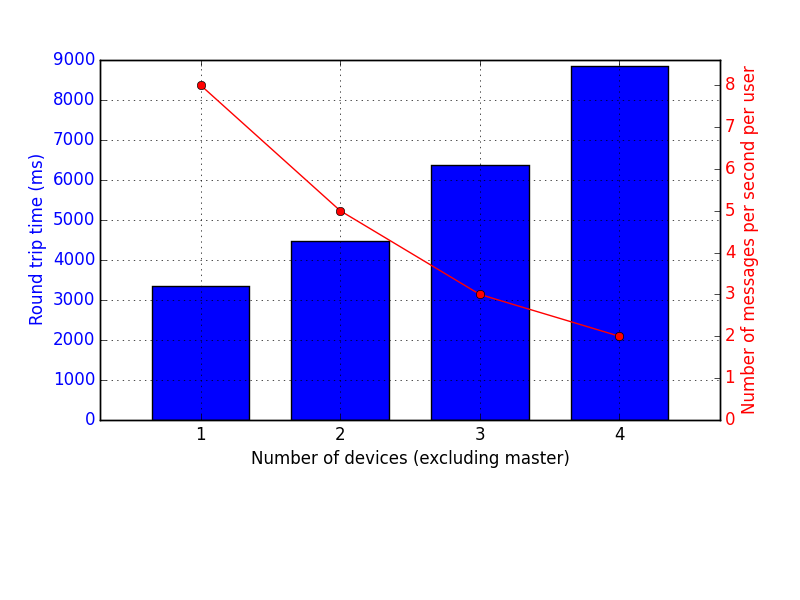
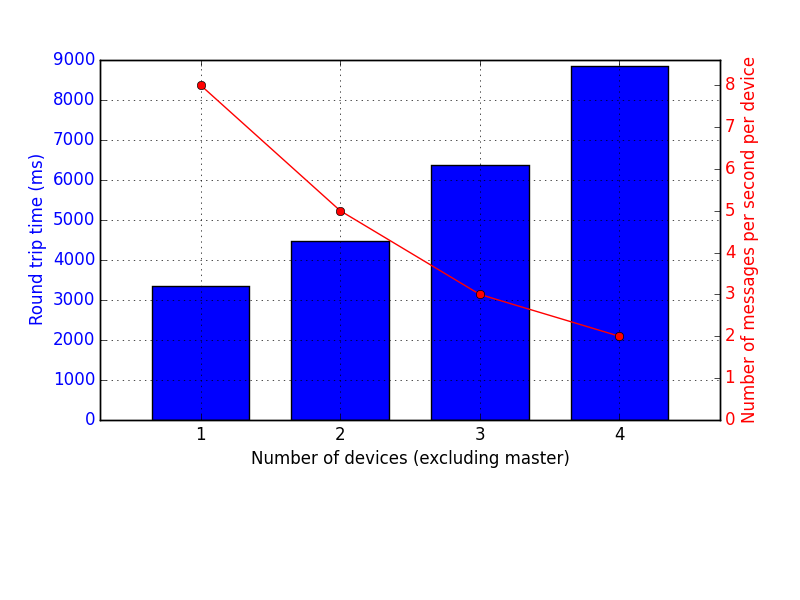
Updates from ShareLaTeX

Changed region(s): [[0.9062, 0.09, 0.9688, 0.72]]

diff --git a/technology/main.tex b/technology/main.tex
@@ -1,0 +1,32 @@
+\subsection{Benchmark Application}
+All of the benchmarking code was implemented in a standard android application which is available on Github \cite{benchmarking-code}.
+The application was responsible for running a simulation and collecting the relevant metrics for each simulation scenario.
+To allow programmatic access to all this functions, a small HTTP server \cite{nanohttpd} was embedded into the application.
+This approach allowed manual testing of the functionality during development as well as allowing a remote script to run the real simulations.
+Three endpoints were exposed on the HTTP server by the application; one to get the Bluetooth name and MAC address of the device and two to run simulations.
+
+A python script was developed to run the individual simulations, collect and plot the data generated in the process.
+The script used the list of local IP addresses as input and collected all of the necessary information via the \texttt{/mac} HTTP endpoint on each device.
+
+
+The second benchmark was designed to test the performance of a device to send multiple messages to a variety of other devices.
+For this test a single device, the master, sent a predefined number of messages to a set of devices.
+When the devices received a message they sent a reply back so that the master could compute the round-trip-time.
+
+To initiate the test the script invoked the \texttt{/messages} endpoint on the master device, passing a list of targets and the number of messages to send to each client as query string parameters.
+
+Each message sent by the master was tagged with a random UUID, so when the response was received, the master was able to compute the round trip time for that message.
+Once the master received a response for every request sent (or after the timeout went off), a CSV was returned as response to the HTTP request.
+This CSV contained six fields: ``to'', ``from'', ``message\textunderscore size'', ``started'', ``received'' and ``finished''.
+``to'' and ``from'', like in the previous test, contained the Bluetooth MAC address of client and server.
+``message\textunderscore size'' contained the size of the messages sent (1024 bytes by default).
+``started'' and ``stopped'' were timestamps mesured when the mesage was sent and a reply was received, completing the round-trip.
+
+\paragraph{Connection setup} 
+The messages coming back from the clients also contained a timestamp recorded when the client device received the messages.
+Its purpose was to estimate how much of the round-trip time was spent in establishing the connection.
+The problem with this approach was that the internal clocks of the devices were not synchronized and the data collected contained many inconsistencies.
+Presently the Android operating system does not allow to force a NTP sync or alter the system clock via API, thus preventing external applications from doing so.
+
+In order to understand how the number of devices affects the number of messages a device is able to deliver, a complete test run started by performing the test targeting one of the devices progressively increasing the number of device until all the requested devices were included.
+The results obtained from the tests are summarized and shown in \ref{figure:messages-per-second}.

diff --git a/alternatives/analysis.tex b/alternatives/analysis.tex
@@ -19,8 +19,8 @@ Manual pairing was performed on all three devices (each of them was paired with 
 After a couple of minutes where the messages each phone sent were not received by the other two, the three devices connected in a master-slave setup.
 
 One of the three devices (``A'') received messages sent from the other two (``B'' and ``C'') and was able to send messages to both.
-Messages sent by ``B'' were only received by ``A'' but never by ``C'' and vice versa.
-Any attempt to connect more devices to the chatroom proved unsuccessful.
+Messages sent by ``B'' were only received by ``A'' but never by ``C'' and vice-versa.
+Any attempt to connect more devices to the chat room proved unsuccessful.
 This test proved that while a possible communication channel between ``B'' and ``C'' was available through ``A'' the application was not able to exploit it to relay messages.\\
 
 Given that the previous experiment was not able to reliably connect devices via Bluetooth two of the devices were replaced with python scripts running on PCs with a Bluetooth dongle.
@@ -31,7 +31,7 @@ The connection on port 4 did not yield any result but the connection on port 15 
 \begin{figure}[ht!]
   \centering
   \includegraphics[width=0.2\textwidth]{img/diagram1.png} 
-  \caption{Device to device communication}
+  \caption{Topology created by three devices on Firechat. Device A could communicate with both B and C but did not pass messages between them}
 \end{figure}
 
 \paragraph{Message format}
@@ -43,7 +43,7 @@ We were not able to figure out what they represented but they were not needed to
 
 
 \begin{minipage}{\textwidth}
-  \begin{lstlisting}[caption=Sample Message,frame=tlrb]{Name}
+  \begin{lstlisting}[caption=Sample Firechat application message,frame=tlrb]{Name}
   {
     "uuid": "7e2b5e4a-d018-4...",
     "name": "John Doe",
@@ -62,7 +62,7 @@ For the second experiment one device with Firechat (``A'') and two PCs running a
 \begin{figure}[ht!]
   \centering
   \includegraphics[width=0.2\textwidth]{img/diagram2.png} 
-  \caption{PC to device communication}
+  \caption{Topology created by connecting two PCs with a device running Firechat. Used to verify that the application did not pass messages between two disjoint networks}
 \end{figure}
 
 \subsection{Conclusion}

diff --git a/application/performance.tex b/application/performance.tex
@@ -1,0 +1,48 @@
+\section{Performance testing}
+To investigate whether or not the primitives provided were suitable for the task we implemented 3 synthetic benchmarks designed to closely match real world scenarios.
+
+\subsection{Devices}
+Different devices were employed for testing. Table \ref{table:devices-used} provides a correspondence between names used in the graphs and the mark and model of the devices 
+used.
+
+\begin{table}[h]
+\centering
+\caption{Devices used for performance testing}
+\label{table:devices-used}
+\begin{tabular}{lllll}
+\hline
+Name          & Manufacturer      & Model name    \\ \hline
+Nexus 5       & Google            & Nexus 5       \\
+Nexus 7       & Google            & Nexus 7       \\
+OnePlus One 1 & OnePlus           & One           \\
+OnePlus One 2 & OnePlus           & One           \\
+Redmi         & Xiaomi            & Redmi 2       \\ 
+\hline
+\end{tabular}
+\end{table}
+
+\subsection{Throughput}
+This benchmark was designed to test the transmission performance of Bluetooth in the context of a long lasting connection to a single other device such as the exchange of a picture or video.
+Transmission performance is defined in terms of bytes transferred per second.
+
+A single run of the test involved two devices: a server which sent packets of a predefined size and a client which received the packets and computed the time necessary to receive them.
+The test was then run between each pair of devices and the results are shown in Figure \ref{figure:throughput}.
+
+\begin{figure}[ht!]
+  \centering
+  \includegraphics[width=1.0\textwidth]{img/throughput.png} 
+  \caption{KBytes received per second. Devices on the top are servers while devices on the bottom are clients.}
+  \label{figure:throughput}
+\end{figure}
+
+\subsection{Round trip time}
+In an application designed to allow people to communicate, the time a message takes to be delivered is an important parameter.
+In order to 
+
+
+\begin{figure}[ht!]
+  \centering
+  \includegraphics[width=1.0\textwidth]{img/messages_per_second.png} 
+  \caption{Estimate of Round Trip Time and Messages per second rate}
+  \label{figure:messages-per-second}
+\end{figure}

diff --git a/preface.tex b/preface.tex
@@ -2,6 +2,12 @@
 
 \epigraph{``Those who would give up essential Liberty, to purchase a little temporary Safety, deserve neither Liberty nor Safety.''}{--- \textup{Benjamin Franklin} }
 
- Lorem ipsum dolor sit amet, consectetur adipiscing elit. Suspendisse pellentesque blandit lacus, id cursus urna posuere non. Aenean in massa eu sapien viverra pellentesque a ac metus. Vivamus vulputate lobortis augue eget semper. Vivamus faucibus porta tincidunt. Nam placerat feugiat tincidunt. Vestibulum volutpat, nulla eu aliquam vehicula, mi enim vehicula dui, nec malesuada felis nisi et enim. Curabitur hendrerit non ex non ornare. Vivamus cursus nulla a erat feugiat, et tempus tellus molestie. Maecenas ante libero, interdum at egestas a, posuere eget orci. Proin semper aliquam libero nec euismod. Proin nec lorem venenatis, tristique risus id, vestibulum diam. Mauris mattis quam mi, at mattis turpis fringilla in. Nulla facilisi. Ut quis lacus pretium, efficitur massa vitae, rutrum nunc. Donec molestie consectetur dolor eget rhoncus. Proin quis rhoncus lectus.
+In the following thesis we will discuss the design and implementation of a distributed peer to peer protocol for nearby communication.
+Peer-to-peer communication works by creating a network of interconnected devices that share messages between each other without relying on external infrastructure.
 
-Suspendisse et mauris a lacus sagittis ultricies. Nam metus turpis, volutpat id urna eget, posuere elementum nisi. Aenean pharetra sem sed dui ullamcorper consequat. Etiam fermentum luctus ante, eget efficitur tellus convallis a. Ut vitae metus odio. Etiam interdum, ante sed vestibulum sodales, neque turpis mollis justo, et interdum lacus felis eu nisi. Suspendisse sit amet est et tortor placerat pretium. Donec nunc orci, consequat vitae purus in, dignissim blandit enim. Mauris quis odio et eros egestas pulvinar. Phasellus eget consectetur magna.
+- external infrastructure is unreliable
+-- evaluation of different peer-to-peer-tech
+--- wifi-direct
+--- bluetooth
+--- nfc
+--- wifi-infrastructure

diff --git a/application/main.tex b/application/main.tex
@@ -1,0 +1,14 @@
+\chapter{MeshChat}
+Meshchat is a prototype application designed to deliver messages to as many clients as possible without the need for centralized infrastructure.
+The first step in the design of such an application is to understand whether or not the primitives offered by Bluetooth on Android are sufficient to perform the task.
+In the following chapter we describe the primitives provided, how we made sure that they were suitable for the task and how the final application uses them to achieve its goal.
+\section{Primitives}
+The API provided by the Android system to work with bluetooth only allows access to the RFCOMM layer of the protocol stack.
+Since RFCOMM emulates a serial connection it does not support sending a packet to more than one device at a time.
+In order to simulate a multicast transmission the application must send a message to each of its peers individually.
+
+An application can also discover nearby devices by requesting an inquiry scan.
+The inquiry scan is a very intensive operation that consumes a lot of battery power and degrades the transmission performance of the Bluetooth radio.
+Because of the drawbacks it is always best to perform short inquiry scans separated by a few minutes of pause.
+
+\input{application/performance}

diff --git a/bluetooth/overview.tex b/bluetooth/overview.tex
@@ -10,7 +10,7 @@ Two or more devices that have the same hopping pattern share a physical channel 
 Piconets are the most basic form of Bluetooth communication upon which all other protocols are layered on.
 In a piconet a device must act as a master and all the other devices as slaves.
 The physical channel is divided into slots numbered according to the Bluetooth clock of the master.
-A time division duplex scheme \cite{TDD} is used to schedule access to the channel and allow master and slaves to communicate.
+A time division duplex scheme \cite{TDDp} is used to schedule access to the channel and allow master and slaves to communicate.
 All the communication in a piconet is between master and slaves, there is never direct communication between slaves.
 
 \paragraph{Addressing}

diff --git a/bluetooth/main.tex b/bluetooth/main.tex
@@ -4,5 +4,5 @@ Originally developed by Ericsson, Bluetooth technology is now used in millions o
 The development of the Bluetooth technology and the licensing of the trademark are now managed by the Special Interest Group, founded in 1998 by Ericsson, IBM, Intel, Nokia and Toshiba and now consisting of more than 25000 members.
 Unlike Wi-Fi, Bluetooth is designed to be energy efficient and cheap to produce. For this reason, Bluetooth is very common on portable devices like smartphones and laptops.
 
-\input{technology_overview}
-\input{bt_architecture}
+\input{bluetooth/overview}
+\input{bluetooth/architecture}

diff --git a/bluetooth/architecture.tex b/bluetooth/architecture.tex
@@ -5,7 +5,8 @@ The Bluetooth core system consists of an RF transceiver, the baseband, and a set
 \begin{figure}[ht!]
   \centering
   \includegraphics[width=0.3\textwidth]{img/bluetooth_protocol_stack.png} 
-  \caption{The Bluetooth protocols stack}
+  \caption{Bluetooth protocol stack}
+  \label{img:bt-protocol-stack}
 \end{figure}
 
 \subsection{L2CAP}

diff --git a/main.tex b/main.tex
@@ -34,10 +34,8 @@
 	\input{cover}
   	\tableofcontents
   	\input{preface}  
-  	\input{bluetooth}
-  	\input{bt_performance}
-  	\input{application}
-  	\input{alternative_analysis}
-  	\bibliographystyle{unsrt}
+  	\input{bluetooth/main}
+  	\input{alternatives/analysis}
+  	\input{application/main}
   	\bibliography{biblio}
 \end{document}
